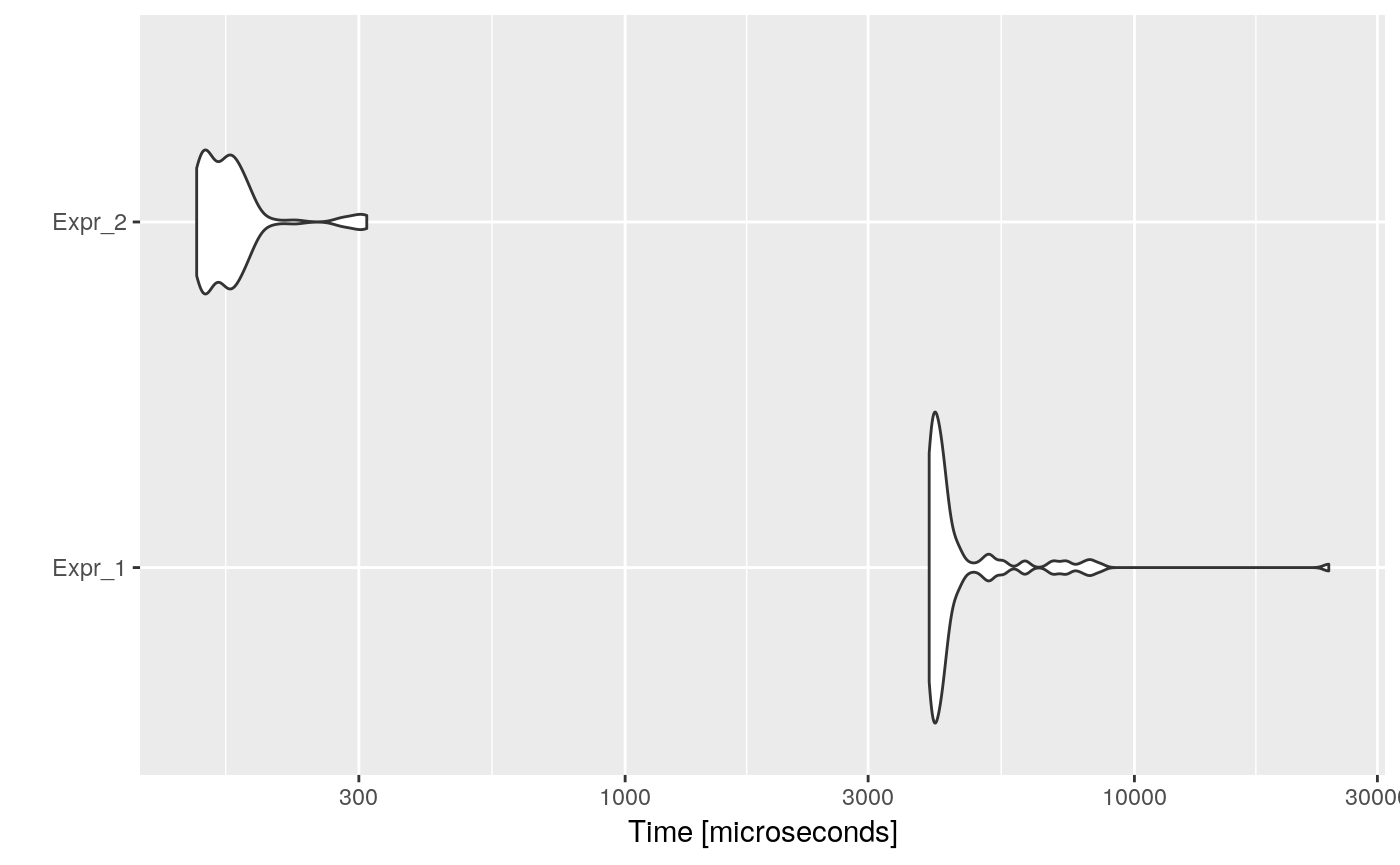
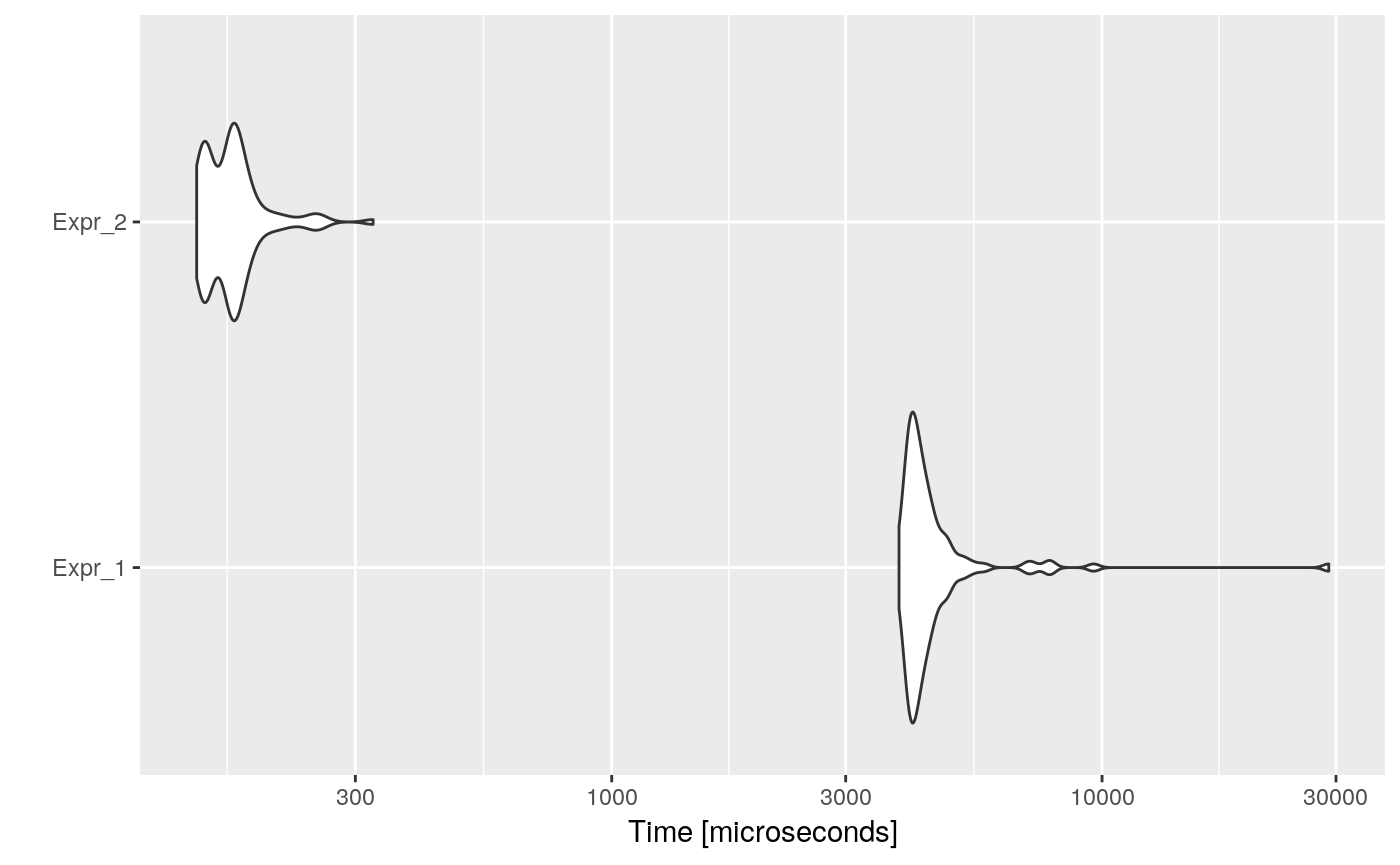
Editions to improve optimize_files

diff --git a/docs/articles/opt-dead-code.html b/docs/articles/opt-dead-code.html
@@ -164,26 +164,24 @@
 ##   }
 ## }</code></pre>
 <p>Then, the automatically optimized code would be:</p>
-<div class="sourceCode" id="cb7"><pre class="sourceCode r"><code class="sourceCode r"><a class="sourceLine" id="cb7-1" data-line-number="1">opt_code &lt;-<span class="st"> </span><span class="kw"><a href="../reference/opt_dead_code.html">opt_dead_code</a></span>(<span class="kw"><a href="https://www.rdocumentation.org/packages/base/topics/list">list</a></span>(code))</a></code></pre></div>
-<pre><code>## Called from: remove_unassigned_exprs(new_fpd)
-## debug at /home/jcrodriguez/Dropbox/R/rco/R/opt-dead-code.R#271: fpd</code></pre>
-<div class="sourceCode" id="cb9"><pre class="sourceCode r"><code class="sourceCode r"><a class="sourceLine" id="cb9-1" data-line-number="1"><span class="kw"><a href="https://www.rdocumentation.org/packages/base/topics/cat">cat</a></span>(opt_code<span class="op">$</span>codes[[<span class="dv">1</span>]])</a></code></pre></div>
+<div class="sourceCode" id="cb7"><pre class="sourceCode r"><code class="sourceCode r"><a class="sourceLine" id="cb7-1" data-line-number="1">opt_code &lt;-<span class="st"> </span><span class="kw"><a href="../reference/opt_dead_code.html">opt_dead_code</a></span>(<span class="kw"><a href="https://www.rdocumentation.org/packages/base/topics/list">list</a></span>(code))</a>
+<a class="sourceLine" id="cb7-2" data-line-number="2"><span class="kw"><a href="https://www.rdocumentation.org/packages/base/topics/cat">cat</a></span>(opt_code<span class="op">$</span>codes[[<span class="dv">1</span>]])</a></code></pre></div>
 <pre><code>## i &lt;- 0
 ## n &lt;- 1000
 ## while (i &lt; n) {
 ##   i &lt;- i + 1
 ## }</code></pre>
 <p>And if we measure the execution time of each one, and the speed-up:</p>
-<div class="sourceCode" id="cb11"><pre class="sourceCode r"><code class="sourceCode r"><a class="sourceLine" id="cb11-1" data-line-number="1">bmark_res &lt;-<span class="st"> </span><span class="kw">microbenchmark</span>({</a>
-<a class="sourceLine" id="cb11-2" data-line-number="2">  <span class="kw"><a href="https://www.rdocumentation.org/packages/base/topics/eval">eval</a></span>(<span class="kw"><a href="https://www.rdocumentation.org/packages/base/topics/parse">parse</a></span>(<span class="dt">text =</span> code))</a>
-<a class="sourceLine" id="cb11-3" data-line-number="3">}, {</a>
-<a class="sourceLine" id="cb11-4" data-line-number="4">  <span class="kw"><a href="https://www.rdocumentation.org/packages/base/topics/eval">eval</a></span>(<span class="kw"><a href="https://www.rdocumentation.org/packages/base/topics/parse">parse</a></span>(<span class="dt">text =</span> opt_code))</a>
-<a class="sourceLine" id="cb11-5" data-line-number="5">})</a>
-<a class="sourceLine" id="cb11-6" data-line-number="6"><span class="kw">autoplot</span>(bmark_res)</a></code></pre></div>
+<div class="sourceCode" id="cb9"><pre class="sourceCode r"><code class="sourceCode r"><a class="sourceLine" id="cb9-1" data-line-number="1">bmark_res &lt;-<span class="st"> </span><span class="kw">microbenchmark</span>({</a>
+<a class="sourceLine" id="cb9-2" data-line-number="2">  <span class="kw"><a href="https://www.rdocumentation.org/packages/base/topics/eval">eval</a></span>(<span class="kw"><a href="https://www.rdocumentation.org/packages/base/topics/parse">parse</a></span>(<span class="dt">text =</span> code))</a>
+<a class="sourceLine" id="cb9-3" data-line-number="3">}, {</a>
+<a class="sourceLine" id="cb9-4" data-line-number="4">  <span class="kw"><a href="https://www.rdocumentation.org/packages/base/topics/eval">eval</a></span>(<span class="kw"><a href="https://www.rdocumentation.org/packages/base/topics/parse">parse</a></span>(<span class="dt">text =</span> opt_code))</a>
+<a class="sourceLine" id="cb9-5" data-line-number="5">})</a>
+<a class="sourceLine" id="cb9-6" data-line-number="6"><span class="kw">autoplot</span>(bmark_res)</a></code></pre></div>
 <p><img src="opt-dead-code_files/figure-html/unnamed-chunk-8-1.png" width="700"></p>
-<div class="sourceCode" id="cb12"><pre class="sourceCode r"><code class="sourceCode r"><a class="sourceLine" id="cb12-1" data-line-number="1"><span class="kw">speed_up</span>(bmark_res)</a></code></pre></div>
-<pre><code>##            Min.  1st Qu.   Median     Mean  3rd Qu.    Max.
-## Expr_2 78.51418 70.34745 57.10968 63.89037 50.53919 188.005</code></pre>
+<div class="sourceCode" id="cb10"><pre class="sourceCode r"><code class="sourceCode r"><a class="sourceLine" id="cb10-1" data-line-number="1"><span class="kw">speed_up</span>(bmark_res)</a></code></pre></div>
+<pre><code>##            Min.  1st Qu.   Median     Mean  3rd Qu.     Max.
+## Expr_2 78.90395 71.91721 54.28166 64.61706 52.03862 196.3707</code></pre>
 </div>
 <div id="implementation" class="section level2">
 <h2 class="hasAnchor">
@@ -212,22 +210,22 @@
 <li>
 <p>Remove not assigned expressions?</p>
 <p>When coding, for debugging, sometimes instead of using <code>print</code> or <code>cat</code> we just write the expression. This causes that we get code as for example:</p>
-<div class="sourceCode" id="cb14"><pre class="sourceCode r"><code class="sourceCode r"><a class="sourceLine" id="cb14-1" data-line-number="1">foo &lt;-<span class="st"> </span><span class="cf">function</span>(x) {</a>
-<a class="sourceLine" id="cb14-2" data-line-number="2">  x <span class="op">!=</span><span class="st"> </span><span class="dv">0</span></a>
-<a class="sourceLine" id="cb14-3" data-line-number="3">  <span class="kw"><a href="https://www.rdocumentation.org/packages/base/topics/function">return</a></span>(<span class="dv">100</span> <span class="op">/</span><span class="st"> </span>x)</a>
-<a class="sourceLine" id="cb14-4" data-line-number="4">}</a></code></pre></div>
+<div class="sourceCode" id="cb12"><pre class="sourceCode r"><code class="sourceCode r"><a class="sourceLine" id="cb12-1" data-line-number="1">foo &lt;-<span class="st"> </span><span class="cf">function</span>(x) {</a>
+<a class="sourceLine" id="cb12-2" data-line-number="2">  x <span class="op">!=</span><span class="st"> </span><span class="dv">0</span></a>
+<a class="sourceLine" id="cb12-3" data-line-number="3">  <span class="kw"><a href="https://www.rdocumentation.org/packages/base/topics/function">return</a></span>(<span class="dv">100</span> <span class="op">/</span><span class="st"> </span>x)</a>
+<a class="sourceLine" id="cb12-4" data-line-number="4">}</a></code></pre></div>
 <p>Here, the expression <code>x != 0</code> would be evaluated each time we call the <code>foo</code> function, but would not have any effect as it is not assigned, nor printed. And thus, could be removed.</p>
 <p>However, removing expressions could result in behaviour missmatches, for instance, the following two codes:</p>
-<div class="sourceCode" id="cb15"><pre class="sourceCode r"><code class="sourceCode r"><a class="sourceLine" id="cb15-1" data-line-number="1">foo &lt;-<span class="st"> </span><span class="cf">function</span>() {</a>
-<a class="sourceLine" id="cb15-2" data-line-number="2">  x <span class="op">!=</span><span class="st"> </span><span class="dv">0</span></a>
-<a class="sourceLine" id="cb15-3" data-line-number="3">  <span class="kw"><a href="https://www.rdocumentation.org/packages/base/topics/function">return</a></span>(<span class="dv">100</span>)</a>
-<a class="sourceLine" id="cb15-4" data-line-number="4">}</a>
-<a class="sourceLine" id="cb15-5" data-line-number="5">bar &lt;-<span class="st"> </span><span class="cf">function</span>() {</a>
-<a class="sourceLine" id="cb15-6" data-line-number="6">  <span class="kw"><a href="https://www.rdocumentation.org/packages/base/topics/function">return</a></span>(<span class="dv">100</span>)</a>
-<a class="sourceLine" id="cb15-7" data-line-number="7">}</a>
-<a class="sourceLine" id="cb15-8" data-line-number="8"></a>
-<a class="sourceLine" id="cb15-9" data-line-number="9"><span class="kw">foo</span>()</a>
-<a class="sourceLine" id="cb15-10" data-line-number="10"><span class="kw"><a href="https://www.rdocumentation.org/packages/grDevices/topics/plotmath">bar</a></span>()</a></code></pre></div>
+<div class="sourceCode" id="cb13"><pre class="sourceCode r"><code class="sourceCode r"><a class="sourceLine" id="cb13-1" data-line-number="1">foo &lt;-<span class="st"> </span><span class="cf">function</span>() {</a>
+<a class="sourceLine" id="cb13-2" data-line-number="2">  x <span class="op">!=</span><span class="st"> </span><span class="dv">0</span></a>
+<a class="sourceLine" id="cb13-3" data-line-number="3">  <span class="kw"><a href="https://www.rdocumentation.org/packages/base/topics/function">return</a></span>(<span class="dv">100</span>)</a>
+<a class="sourceLine" id="cb13-4" data-line-number="4">}</a>
+<a class="sourceLine" id="cb13-5" data-line-number="5">bar &lt;-<span class="st"> </span><span class="cf">function</span>() {</a>
+<a class="sourceLine" id="cb13-6" data-line-number="6">  <span class="kw"><a href="https://www.rdocumentation.org/packages/base/topics/function">return</a></span>(<span class="dv">100</span>)</a>
+<a class="sourceLine" id="cb13-7" data-line-number="7">}</a>
+<a class="sourceLine" id="cb13-8" data-line-number="8"></a>
+<a class="sourceLine" id="cb13-9" data-line-number="9"><span class="kw">foo</span>()</a>
+<a class="sourceLine" id="cb13-10" data-line-number="10"><span class="kw"><a href="https://www.rdocumentation.org/packages/grDevices/topics/plotmath">bar</a></span>()</a></code></pre></div>
 <p>The <code>foo</code> call would give an error, while the <code>bar</code> call would not.</p>
 </li>
 </ul>

diff --git a/docs/index.html b/docs/index.html
@@ -131,9 +131,8 @@
 <a class="sourceLine" id="cb3-13" data-line-number="13">  <span class="dt">sep =</span> <span class="st">"</span><span class="ch">\n</span><span class="st">"</span></a>
 <a class="sourceLine" id="cb3-14" data-line-number="14">)</a></code></pre></div>
 <p>We can automatically optimize it by doing:</p>
-<div class="sourceCode" id="cb4"><pre class="sourceCode r"><code class="sourceCode r"><a class="sourceLine" id="cb4-1" data-line-number="1">opt_code &lt;-<span class="st"> </span><span class="kw"><a href="reference/optimize_text.html">optimize_text</a></span>(code)</a></code></pre></div>
-<pre><code>## Called from: remove_unassigned_exprs(new_fpd)
-## debug at /home/jcrodriguez/Dropbox/R/rco/R/opt-dead-code.R#271: fpd
+<div class="sourceCode" id="cb4"><pre class="sourceCode r"><code class="sourceCode r"><a class="sourceLine" id="cb4-1" data-line-number="1">opt_code &lt;-<span class="st"> </span><span class="kw"><a href="reference/optimize_text.html">optimize_text</a></span>(code, <span class="dt">iterations =</span> <span class="dv">1</span>)</a></code></pre></div>
+<pre><code>## Optimization number 1
 ## # I want to know my age in seconds!
 ## years_old &lt;- 29
 ## days_old &lt;- 365 * 29 # leap years don't exist
@@ -146,9 +145,8 @@
 ##   print("Meh!")
 ## }</code></pre>
 <p>After one optimization pass we can see that it has only propagated the <code>years_old</code> variable. Another pass:</p>
-<div class="sourceCode" id="cb6"><pre class="sourceCode r"><code class="sourceCode r"><a class="sourceLine" id="cb6-1" data-line-number="1">opt_code &lt;-<span class="st"> </span><span class="kw"><a href="reference/optimize_text.html">optimize_text</a></span>(opt_code)</a></code></pre></div>
-<pre><code>## Called from: remove_unassigned_exprs(new_fpd)
-## debug at /home/jcrodriguez/Dropbox/R/rco/R/opt-dead-code.R#271: fpd
+<div class="sourceCode" id="cb6"><pre class="sourceCode r"><code class="sourceCode r"><a class="sourceLine" id="cb6-1" data-line-number="1">opt_code &lt;-<span class="st"> </span><span class="kw"><a href="reference/optimize_text.html">optimize_text</a></span>(opt_code, <span class="dt">iterations =</span> <span class="dv">1</span>)</a></code></pre></div>
+<pre><code>## Optimization number 1
 ## # I want to know my age in seconds!
 ## years_old &lt;- 29
 ## days_old &lt;- 10585 # leap years don't exist
@@ -161,9 +159,8 @@
 ##   print("Meh!")
 ## }</code></pre>
 <p>Now, it has folded the <code>days_old</code> variable, and then propagated it. Another pass:</p>
-<div class="sourceCode" id="cb8"><pre class="sourceCode r"><code class="sourceCode r"><a class="sourceLine" id="cb8-1" data-line-number="1">opt_code &lt;-<span class="st"> </span><span class="kw"><a href="reference/optimize_text.html">optimize_text</a></span>(opt_code)</a></code></pre></div>
-<pre><code>## Called from: remove_unassigned_exprs(new_fpd)
-## debug at /home/jcrodriguez/Dropbox/R/rco/R/opt-dead-code.R#271: fpd
+<div class="sourceCode" id="cb8"><pre class="sourceCode r"><code class="sourceCode r"><a class="sourceLine" id="cb8-1" data-line-number="1">opt_code &lt;-<span class="st"> </span><span class="kw"><a href="reference/optimize_text.html">optimize_text</a></span>(opt_code, <span class="dt">iterations =</span> <span class="dv">1</span>)</a></code></pre></div>
+<pre><code>## Optimization number 1
 ## # I want to know my age in seconds!
 ## years_old &lt;- 29
 ## days_old &lt;- 10585 # leap years don't exist
@@ -176,9 +173,8 @@
 ##   print("Meh!")
 ## }</code></pre>
 <p>It has folded the <code>hours_old</code> variable, and then propagated it. Another pass:</p>
-<div class="sourceCode" id="cb10"><pre class="sourceCode r"><code class="sourceCode r"><a class="sourceLine" id="cb10-1" data-line-number="1">opt_code &lt;-<span class="st"> </span><span class="kw"><a href="reference/optimize_text.html">optimize_text</a></span>(opt_code)</a></code></pre></div>
-<pre><code>## Called from: remove_unassigned_exprs(new_fpd)
-## debug at /home/jcrodriguez/Dropbox/R/rco/R/opt-dead-code.R#271: fpd
+<div class="sourceCode" id="cb10"><pre class="sourceCode r"><code class="sourceCode r"><a class="sourceLine" id="cb10-1" data-line-number="1">opt_code &lt;-<span class="st"> </span><span class="kw"><a href="reference/optimize_text.html">optimize_text</a></span>(opt_code, <span class="dt">iterations =</span> <span class="dv">1</span>)</a></code></pre></div>
+<pre><code>## Optimization number 1
 ## # I want to know my age in seconds!
 ## years_old &lt;- 29
 ## days_old &lt;- 10585 # leap years don't exist
@@ -191,9 +187,8 @@
 ##   print("Meh!")
 ## }</code></pre>
 <p>It has folded the <code>seconds_old</code> variable, and then propagated it into the <code>if</code> condition. Another pass:</p>
-<div class="sourceCode" id="cb12"><pre class="sourceCode r"><code class="sourceCode r"><a class="sourceLine" id="cb12-1" data-line-number="1">opt_code &lt;-<span class="st"> </span><span class="kw"><a href="reference/optimize_text.html">optimize_text</a></span>(opt_code)</a></code></pre></div>
-<pre><code>## Called from: remove_unassigned_exprs(new_fpd)
-## debug at /home/jcrodriguez/Dropbox/R/rco/R/opt-dead-code.R#271: fpd
+<div class="sourceCode" id="cb12"><pre class="sourceCode r"><code class="sourceCode r"><a class="sourceLine" id="cb12-1" data-line-number="1">opt_code &lt;-<span class="st"> </span><span class="kw"><a href="reference/optimize_text.html">optimize_text</a></span>(opt_code, <span class="dt">iterations =</span> <span class="dv">1</span>)</a></code></pre></div>
+<pre><code>## Optimization number 1
 ## # I want to know my age in seconds!
 ## years_old &lt;- 29
 ## days_old &lt;- 10585 # leap years don't exist

diff --git a/docs/reference/optimize_files.html b/docs/reference/optimize_files.html
@@ -139,7 +139,8 @@ information to rco.</p>
     
     </div>
 
-    <pre class="usage"><span class='fu'>optimize_files</span>(<span class='no'>files</span>, <span class='kw'>optimizers</span> <span class='kw'>=</span> <span class='no'>all_optimizers</span>, <span class='kw'>overwrite</span> <span class='kw'>=</span> <span class='fl'>FALSE</span>)</pre>
+    <pre class="usage"><span class='fu'>optimize_files</span>(<span class='no'>files</span>, <span class='kw'>optimizers</span> <span class='kw'>=</span> <span class='no'>all_optimizers</span>, <span class='kw'>overwrite</span> <span class='kw'>=</span> <span class='fl'>FALSE</span>,
+  <span class='kw'>iterations</span> <span class='kw'>=</span> <span class='fl'>Inf</span>)</pre>
     
     <h2 class="hasAnchor" id="arguments"><a class="anchor" href="#arguments"></a>Arguments</h2>
     <table class="ref-arguments">
@@ -156,6 +157,11 @@ information to rco.</p>
       <th>overwrite</th>
       <td><p>A logical indicating if files should be overwritten, or
 saved into new files with "optimized_" prefix.</p></td>
+    </tr>
+    <tr>
+      <th>iterations</th>
+      <td><p>Numeric indicating the number of times optimizers should
+pass. If there was no change after current pass, it will stop.</p></td>
     </tr>
     </table>
     

diff --git a/docs/reference/optimize_text.html b/docs/reference/optimize_text.html
@@ -133,7 +133,7 @@ Carefully examine the results after running this function!</p>
     
     </div>
 
-    <pre class="usage"><span class='fu'>optimize_text</span>(<span class='no'>text</span>, <span class='kw'>optimizers</span> <span class='kw'>=</span> <span class='no'>all_optimizers</span>)</pre>
+    <pre class="usage"><span class='fu'>optimize_text</span>(<span class='no'>text</span>, <span class='kw'>optimizers</span> <span class='kw'>=</span> <span class='no'>all_optimizers</span>, <span class='kw'>iterations</span> <span class='kw'>=</span> <span class='fl'>Inf</span>)</pre>
     
     <h2 class="hasAnchor" id="arguments"><a class="anchor" href="#arguments"></a>Arguments</h2>
     <table class="ref-arguments">
@@ -145,6 +145,11 @@ Carefully examine the results after running this function!</p>
     <tr>
       <th>optimizers</th>
       <td><p>A list of optimizer functions.</p></td>
+    </tr>
+    <tr>
+      <th>iterations</th>
+      <td><p>Numeric indicating the number of times optimizers should
+pass. If there was no change after current pass, it will stop.</p></td>
     </tr>
     </table>
     

diff --git a/docs/articles/opt-constant-propagation.html b/docs/articles/opt-constant-propagation.html
@@ -163,8 +163,8 @@
 <a class="sourceLine" id="cb7-6" data-line-number="6"><span class="kw">autoplot</span>(bmark_res)</a></code></pre></div>
 <p><img src="opt-constant-propagation_files/figure-html/unnamed-chunk-6-1.png" width="700"></p>
 <div class="sourceCode" id="cb8"><pre class="sourceCode r"><code class="sourceCode r"><a class="sourceLine" id="cb8-1" data-line-number="1"><span class="kw">speed_up</span>(bmark_res)</a></code></pre></div>
-<pre><code>##            Min.  1st Qu.  Median     Mean  3rd Qu.     Max.
-## Expr_2 27.43713 26.89748 25.2364 27.75776 25.16561 77.44266</code></pre>
+<pre><code>##            Min.  1st Qu.   Median     Mean  3rd Qu.     Max.
+## Expr_2 27.06591 27.25904 25.38731 27.84294 25.87357 88.94734</code></pre>
 </div>
 <div id="implementation" class="section level2">
 <h2 class="hasAnchor">

diff --git a/docs/articles/opt-constant-folding.html b/docs/articles/opt-constant-folding.html
@@ -145,8 +145,8 @@
 <a class="sourceLine" id="cb5-6" data-line-number="6"><span class="kw">autoplot</span>(bmark_res)</a></code></pre></div>
 <p><img src="opt-constant-folding_files/figure-html/unnamed-chunk-4-1.png" width="700"></p>
 <div class="sourceCode" id="cb6"><pre class="sourceCode r"><code class="sourceCode r"><a class="sourceLine" id="cb6-1" data-line-number="1"><span class="kw">speed_up</span>(bmark_res)</a></code></pre></div>
-<pre><code>##            Min.  1st Qu.   Median     Mean  3rd Qu.    Max.
-## Expr_2 28.34149 28.95234 27.93968 30.02245 27.56639 62.0325</code></pre>
+<pre><code>##            Min.  1st Qu.   Median     Mean  3rd Qu.     Max.
+## Expr_2 30.36457 30.31306 28.91516 30.81973 27.54804 111.2054</code></pre>
 </div>
 <div id="implementation" class="section level2">
 <h2 class="hasAnchor">
